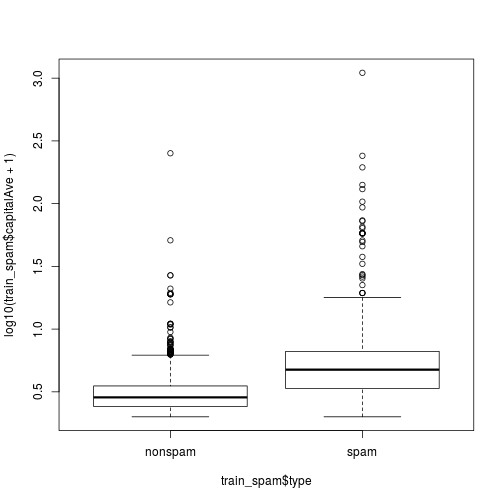
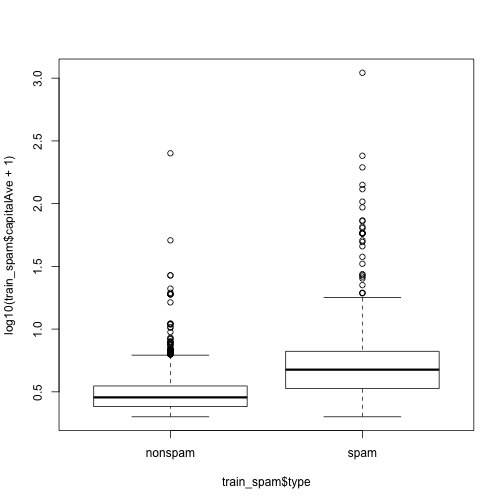
fixed duplicate slides

diff --git a/slides/01-introduction-slides.html b/slides/01-introduction-slides.html
@@ -529,133 +529,6 @@ class: center, middle
 
 ---
 
-
-```r
-# Install the package if you haven't already:
-# install.packages("kernlab")
-library(kernlab)
-data(spam)
-str(spam[, 1:5])
-```
-
-```
-## 'data.frame':	4601 obs. of  5 variables:
-##  $ make   : num  0 0.21 0.06 0 0 0 0 0 0.15 0.06 ...
-##  $ address: num  0.64 0.28 0 0 0 0 0 0 0 0.12 ...
-##  $ all    : num  0.64 0.5 0.71 0 0 0 0 0 0.46 0.77 ...
-##  $ num3d  : num  0 0 0 0 0 0 0 0 0 0 ...
-##  $ our    : num  0.32 0.14 1.23 0.63 0.63 1.85 1.92 1.88 0.61 0.19 ...
-```
-
----
-
-# Training and Test Sets
-
-
-```r
-# Perform subsampling
-set.seed(3435)
-trainIndicator = rbinom(4601, size = 1, prob = 0.5)
-table(trainIndicator)
-```
-
-```
-## trainIndicator
-##    0    1 
-## 2314 2287
-```
-
-```r
-trainSpam = spam[trainIndicator==1,]
-testSpam = spam[trainIndicator==0,]
-```
-
----
-
-# Exploratory analysis
-
-
-```r
-plot(log10(trainSpam$capitalAve + 1) ~ trainSpam$type)
-```
-
-![](01-introduction-slides_files/figure-html/unnamed-chunk-4-1.png)&lt;!-- --&gt;
-
----
-
-# EDA informs modeling
-
-
-```r
-hCluster = hclust(dist(t(trainSpam[,1:57])))
-plot(hCluster)
-```
-
-![](01-introduction-slides_files/figure-html/unnamed-chunk-5-1.png)&lt;!-- --&gt;
-
----
-
-# EDA informs modeling
-
-
-```r
-hClusterUpdated = hclust(dist(t(trainSpam[,1:55] + 1)))
-plot(hClusterUpdated)
-```
-
-![](01-introduction-slides_files/figure-html/unnamed-chunk-6-1.png)&lt;!-- --&gt;
-
----
-
-# Modeling
-
-
-```r
-trainSpam$numType = as.numeric(trainSpam$type) - 1
-costFunction = function(x, y) sum(x!=(y &gt; 0.5))
-cvError = rep(NA, 55)
-library(boot)
-for(i in 1:55){
-  lmFormula = reformulate(names(trainSpam)[i], response = "numType")
-  glmFit = glm(lmFormula, family = "binomial", data = trainSpam)
-  cvError[i] = cv.glm(trainSpam, glmFit, costFunction, 2)$delta[2]
-}
-
-# Which predictor has minimum cross-validated error?
-names(trainSpam)[which.min(cvError)]
-```
-
-```
-## [1] "charDollar"
-```
-
----
-
-# Get a measure of uncertainty
-
-
-```r
-table(predictedSpam, testSpam$type)
-```
-
-```
-predictedSpam nonspam spam
-      nonspam    1346  458
-         spam      61  449
-```
-
-
-```r
-## Error rate
-(61 + 458) / (1346 + 458 + 61 + 499)
-```
-
-```
-## [1] 0.2195431
-```
-
----
-
 # A critical function
 
 .pull-left[
@@ -775,7 +648,7 @@ test_spam = spam[training==0,]
 plot(log10(train_spam$capitalAve + 1) ~ train_spam$type)
 ```
 
-![](01-introduction-slides_files/figure-html/unnamed-chunk-10-1.png)&lt;!-- --&gt;
+![](01-introduction-slides_files/figure-html/unnamed-chunk-2-1.png)&lt;!-- --&gt;
 
 ---
 
@@ -787,9 +660,56 @@ hc1 = hclust(dist(t(log10(train_spam[,1:55]+1))))
 plot(hc1)
 ```
 
-![](01-introduction-slides_files/figure-html/unnamed-chunk-11-1.png)&lt;!-- --&gt;
+![](01-introduction-slides_files/figure-html/unnamed-chunk-3-1.png)&lt;!-- --&gt;
+
+---
+
+# Modeling
 
 
+```r
+train_spam$numType = as.numeric(train_spam$type) - 1
+costFunction = function(x, y) sum(x!=(y &gt; 0.5))
+cvError = rep(NA, 55)
+library(boot)
+for(i in 1:55){
+  lmFormula = reformulate(names(train_spam)[i], response = "numType")
+  glmFit = glm(lmFormula, family = "binomial", data = train_spam)
+  cvError[i] = cv.glm(train_spam, glmFit, costFunction, 2)$delta[2]
+}
+
+# Which predictor has minimum cross-validated error?
+names(train_spam)[which.min(cvError)]
+```
+
+```
+## [1] "charDollar"
+```
+
+---
+
+# Get a measure of uncertainty
+
+
+```r
+table(predictedSpam, testSpam$type)
+```
+
+```
+predictedSpam nonspam spam
+      nonspam    1346  458
+         spam      61  449
+```
+
+
+```r
+## Error rate
+(61 + 458) / (1346 + 458 + 61 + 499)
+```
+
+```
+## [1] 0.2195431
+```
 
 ---
 
